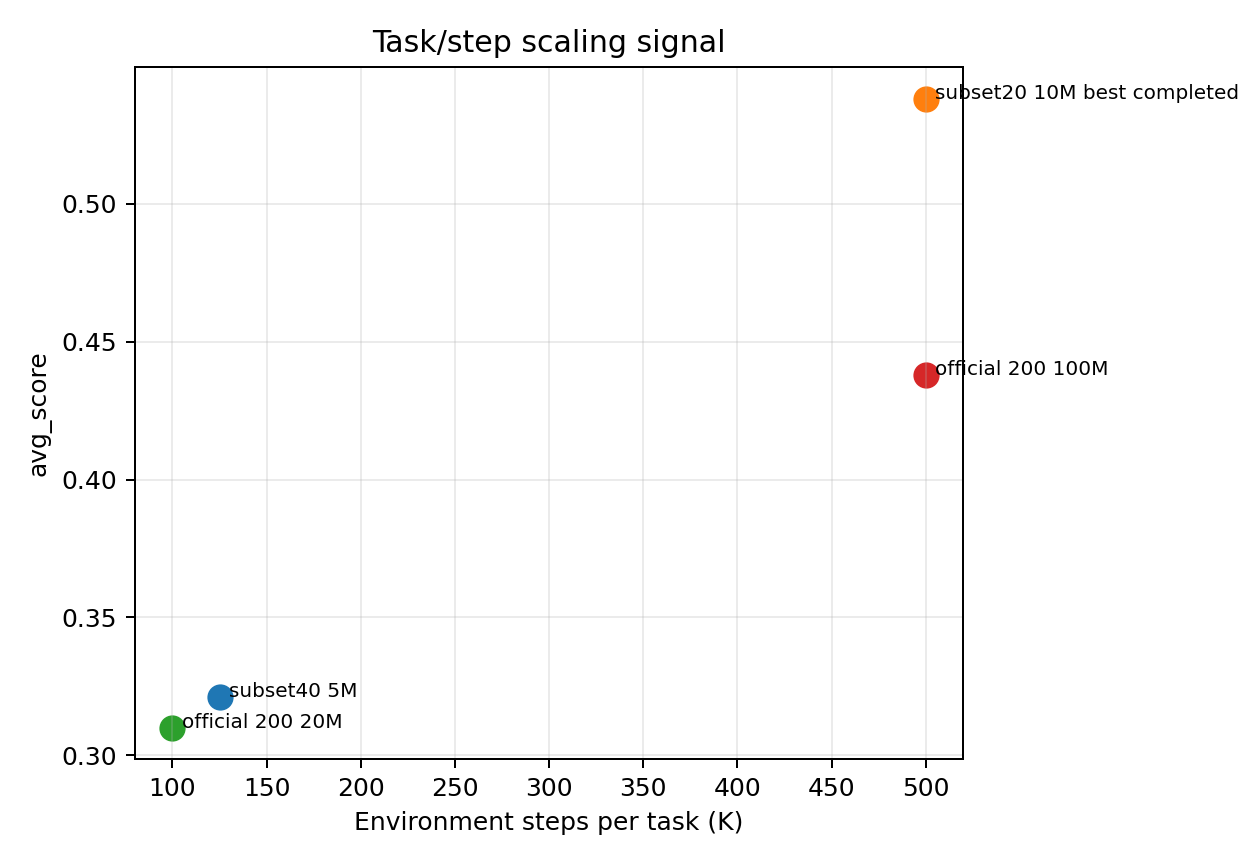
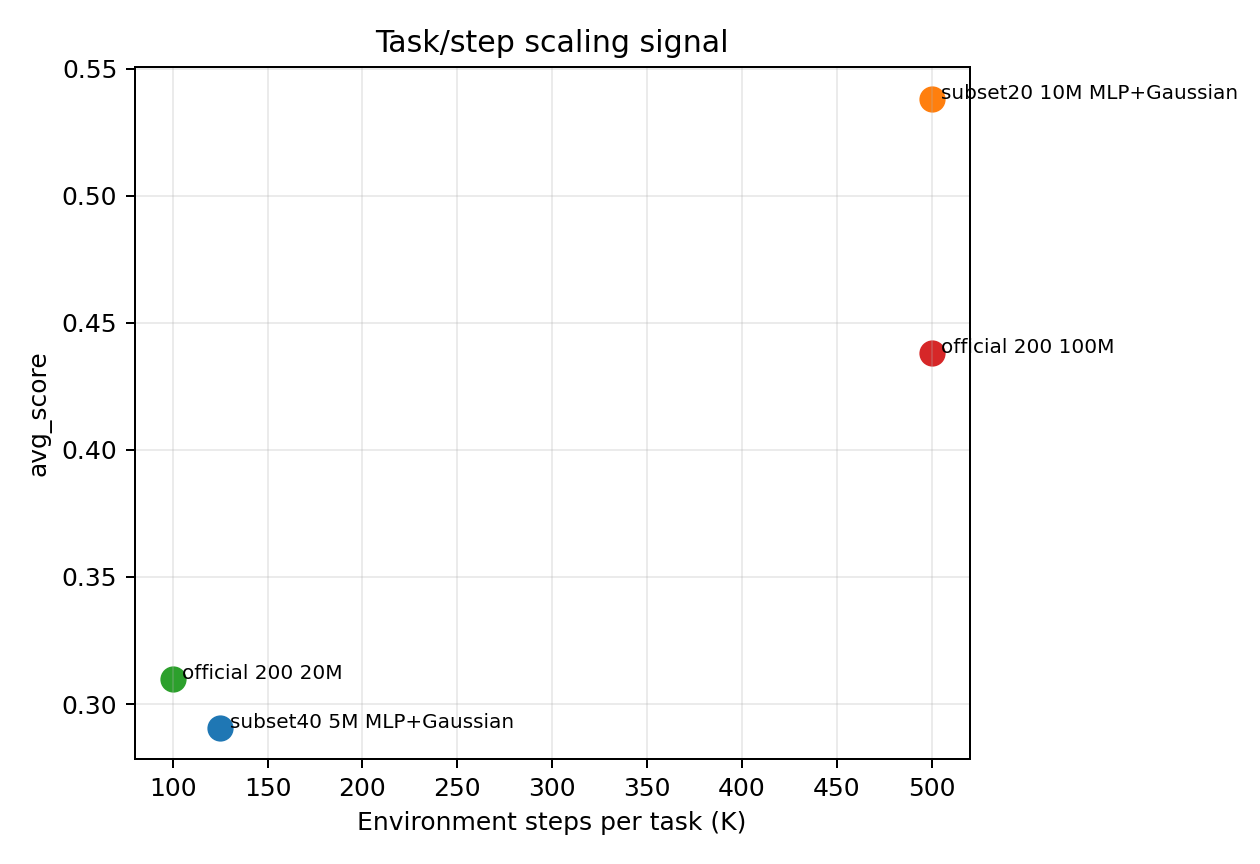
Update ablation runtime summaries

diff --git a/scripts/generate_ablation_insights.py b/scripts/generate_ablation_insights.py
@@ -94,6 +94,15 @@ def run_summary(path: Path, meta: dict) -> dict:
 	records = read_jsonl(path / "metrics.jsonl")
 	evals = dedup_eval_curve(records)
 	trains = [r for r in records if r.get("category") == "train" and "step" in r]
+	eval_durations = []
+	prev = None
+	for rec in records:
+		if rec.get("category") == "eval" and prev and prev.get("category") == "train":
+			delta = rec.get("elapsed_time", 0) - prev.get("elapsed_time", 0)
+			# Ignore resume resets and first-eval outliers; normal subset evals are ~1 minute.
+			if 0 < delta < 600:
+				eval_durations.append(float(delta))
+		prev = rec
 	latest_eval = max(evals, key=lambda r: r.get("step", -1), default={})
 	best_eval = max(evals, key=lambda r: r.get("avg_score", r.get("episode_score", -1)), default={})
 	max_train = max(trains, key=lambda r: r.get("step", -1), default={})
@@ -110,6 +119,8 @@ def run_summary(path: Path, meta: dict) -> dict:
 		"update_time": max_train.get("update_time"),
 		"steps_per_second": max_train.get("steps_per_second"),
 		"elapsed_time_hours": (max_train.get("elapsed_time") / 3600.0) if max_train.get("elapsed_time") else None,
+		"eval_time_mean_s": mean(eval_durations) if eval_durations else None,
+		"eval_time_last_s": eval_durations[-1] if eval_durations else None,
 		"curve": [(int(r["step"]), float(r.get("avg_score", r.get("episode_score")))) for r in evals],
 	}
 
@@ -276,6 +287,32 @@ def plot_compute_scatter(rows: list[dict], out: Path) -> None:
 	plt.close(fig)
 
 
+def plot_runtime_bars(rows: list[dict], out: Path) -> None:
+	rows = sorted(rows, key=lambda r: (r["wm"], r["policy"]))
+	labels = [f"{r['wm']}\n+{r['policy']}" for r in rows]
+	xs = range(len(rows))
+	fig, axes = plt.subplots(1, 2, figsize=(12, 4.8))
+	axes[0].bar([x - 0.18 for x in xs], [r.get("action_time") or 0 for r in rows], width=0.36, label="action_time")
+	axes[0].bar([x + 0.18 for x in xs], [r.get("update_time") or 0 for r in rows], width=0.36, label="update_time")
+	axes[0].set_xticks(list(xs), labels, fontsize=8)
+	axes[0].set_ylabel("Seconds")
+	axes[0].set_title("H100 per-step runtime metrics")
+	axes[0].legend()
+	axes[0].grid(axis="y", alpha=0.25)
+
+	axes[1].bar(xs, [r.get("eval_time_mean_s") or 0 for r in rows], color="#6f9fd8")
+	axes[1].set_xticks(list(xs), labels, fontsize=8)
+	axes[1].set_ylabel("Seconds per eval")
+	axes[1].set_title("H100 mean 20-task eval time")
+	axes[1].grid(axis="y", alpha=0.25)
+	for i, r in enumerate(rows):
+		if r.get("eval_time_mean_s"):
+			axes[1].text(i, r["eval_time_mean_s"] + 1, f"{r['eval_time_mean_s']:.0f}s", ha="center", fontsize=8)
+	fig.tight_layout()
+	fig.savefig(out, dpi=180)
+	plt.close(fig)
+
+
 def main() -> None:
 	parser = argparse.ArgumentParser()
 	parser.add_argument("--out-dir", default="docs/assets/ablation_insights_20260610")
@@ -301,6 +338,9 @@ def main() -> None:
 	write_csv(out_dir / "subset20_highstep_summary.csv", subset20_summary, ["wm", "policy", "n", "final_mean", "final_std", "peak_max", "peak_mean", "action_time_mean", "update_time_mean", "sps_mean", "est_hours_to_10m", "best_run"])
 	write_csv(out_dir / "subset20_runs.csv", subset20, ["gpu", "wm", "policy", "train_step", "eval_step", "final_score", "peak_step", "peak_score", "action_time", "update_time", "steps_per_second", "elapsed_time_hours", "name", "path"])
 	write_csv(out_dir / "subset40_flowsteps_summary.csv", flowsteps_summary, ["flow_steps", "wm", "policy", "n", "final_mean", "final_std", "peak_max", "action_time_mean", "update_time_mean", "sps_mean", "best_run"])
+
+	h100_subset20 = [r for r in subset20 if r["gpu"] == "h100-r1"]
+	write_csv(out_dir / "subset20_h100_runtime_summary.csv", h100_subset20, ["gpu", "wm", "policy", "train_step", "eval_step", "final_score", "peak_step", "peak_score", "action_time", "update_time", "steps_per_second", "eval_time_mean_s", "eval_time_last_s", "elapsed_time_hours", "name"])
 
 	plot_2x2_heatmap(two_by_two, out_dir / "subset40_2x2_heatmap.png")
 	plot_bar(wm_variants, out_dir / "subset40_flow_wm_variants.png", "Subset40 5M Flow-WM variants: final avg_score")
@@ -336,10 +376,16 @@ def main() -> None:
 			curve_groups_20[f"{run['wm']}+{run['policy']}"].append(run)
 	plot_curves(curve_groups_20, out_dir / "subset20_highstep_training_curves.png", "Subset20 10M high-step training curves")
 	plot_compute_scatter(subset20, out_dir / "subset20_compute_vs_score.png")
+	curve_groups_20_h100 = defaultdict(list)
+	for run in h100_subset20:
+		if (run["wm"], run["policy"]) in keep20:
+			curve_groups_20_h100[f"{run['wm']}+{run['policy']}"].append(run)
+	plot_curves(curve_groups_20_h100, out_dir / "subset20_h100_training_curves.png", "Subset20 H100 training curves")
+	plot_runtime_bars(h100_subset20, out_dir / "subset20_h100_runtime_bars.png")
 
 	scaling_rows = [
-		{"setting": "subset40 5M", "tasks": 40, "steps_m": 5, "steps_per_task_k": 125, "score": max(r["final_mean"] for r in two_by_two)},
-		{"setting": "subset20 10M best completed", "tasks": 20, "steps_m": 10, "steps_per_task_k": 500, "score": max(r["final_score"] for r in subset20 if r["eval_step"] >= 10_000_000)},
+		{"setting": "subset40 5M MLP+Gaussian", "tasks": 40, "steps_m": 5, "steps_per_task_k": 125, "score": next(r["final_mean"] for r in two_by_two if r["wm"] == "mlp" and r["policy"] == "gaussian")},
+		{"setting": "subset20 10M MLP+Gaussian", "tasks": 20, "steps_m": 10, "steps_per_task_k": 500, "score": max(r["final_score"] for r in subset20 if r["wm"] == "mlp" and r["policy"] == "gaussian" and r["eval_step"] >= 10_000_000)},
 		{"setting": "official 200 20M", "tasks": 200, "steps_m": 20, "steps_per_task_k": 100, "score": 0.31},
 		{"setting": "official 200 100M", "tasks": 200, "steps_m": 100, "steps_per_task_k": 500, "score": 0.438},
 	]

diff --git a/docs/ablation_insights_summary.md b/docs/ablation_insights_summary.md
@@ -10,6 +10,18 @@ Source metrics:
 
 Important caveat: `mean +/- std` below is over completed local runs across GPU/replicate labels, not over independent random seeds unless explicitly stated.
 
+## Key Results
+
+| Experiment name | # Tasks | Budget / protocol | WM | Policy | Eval step | Avg_score | Peak_score | Notes |
+| --- | ---: | --- | --- | --- | ---: | ---: | ---: | --- |
+| Official Newt paper | 200 | 100M total, state obs | Newt MLP WM | Gaussian prior + MPC | 100M | 0.438 | n/a | Official full MMBench reference. |
+| Official Newt paper | 200 | 20M total, state obs | Newt MLP WM | Gaussian prior + MPC | 20M | 0.310 | n/a | Official early reference. |
+| Official TD-MPC2 single-task | 200 | 1B total across 200 single-task agents | MLP WM | Gaussian + MPC | 1B | 0.800 | n/a | Upper reference, not a multitask agent. |
+| Our subset40 best completed 2x2 | 40 | 5M + 50k demo | MLP WM | Flow policy | 5M | 0.321 +/- 0.012 | 0.339 | Mean +/- std over 4 completed runs; best single run 0.339. Best completed 2x2 architecture. |
+| Our subset40 best flow-WM | 40 | 5M + 50k demo | Residual_flow WM | Gaussian | 5M | 0.232 +/- 0.027 | 0.256 | Mean +/- std over 4 completed runs; best single run 0.256. Best flow-WM variant, still below MLP WM. |
+| Our subset20 strongest signal | 20 | 10M target + 50k demo | MLP WM | Flow policy | 7.2M-9.0M current | 0.519-0.583 | 0.588 | Best current architecture signal; runs are still active/resubmitted across H100/H200/A100/L40S. |
+| Our subset20 promising flow-WM | 20 | 10M target + 50k demo | Residual_flow WM | Gaussian | 4.8M-7.0M current | 0.400-0.463 | 0.511 | Flow-WM improves with more steps, but remains below MLP WM. H100 residual_flow has the strongest flow-WM peak so far. |
+
 ## Architecture Ablation
 
 ### WM x Policy 2x2
@@ -77,18 +89,24 @@ Conclusion:
 
 ## Compute / Runtime Ablation
 
-Protocol: subset20 high-step runs. Scores are current latest/peak local metrics; not all rows are complete at 10M.
+Protocol: subset20 high-step runs on **H100 only**. This avoids mixing architecture effects with H100/H200/A100/L40S runtime differences. Scores are current latest/peak local metrics; not all rows are complete at 10M.
 
-| Architecture | Runs | Current avg_score mean | Peak score | Mean action_time | Mean update_time | Compute read |
-| --- | ---: | ---: | ---: | ---: | ---: | --- |
-| MLP + flow policy | 4 | 0.579 +/- 0.009 | 0.588 | 0.083s | 0.053s | Best score signal, but action selection is slower than Gaussian. |
-| MLP + Gaussian | 4 | 0.497 +/- 0.035 | 0.591 | 0.049s | 0.043s | Fastest strong baseline; best completed 10M row is 0.538. |
-| residual_flow + Gaussian | 4 | 0.431 +/- 0.029 | 0.511 | 0.115s | 0.056s | Slower than MLP+flow and lower score; currently not Pareto-efficient. |
-| residual_mean_flow_wm + Gaussian | 4 | 0.425 +/- 0.052 | 0.492 | 0.068s | 0.050s | Cheaper than residual_flow but lower score. |
+Definitions:
+
+- `mean action_time`: average logged time to select/plan one environment action at the latest train step.
+- `mean update_time`: average logged optimizer/world-model update time per update at the latest train step.
+- `mean eval time`: log-derived estimate from `eval.elapsed_time - previous train.elapsed_time`; useful for relative comparison, but not a profiler-grade measurement.
+
+| Architecture | H100 eval step | Current avg_score | Peak score | Mean action_time | Mean update_time | Mean eval time | Compute read |
+| --- | ---: | ---: | ---: | ---: | ---: | ---: | --- |
+| MLP + flow policy | 9.0M | 0.565 | 0.588 | 0.060s | 0.046s | 87.6s | Best current score signal, but action planning is slower than Gaussian. |
+| MLP + Gaussian | 10.0M | 0.538 | 0.591 | 0.035s | 0.038s | 61.7s | Original Newt setting; fastest strong baseline on H100. |
+| residual_flow + Gaussian | 7.0M | 0.410 | 0.511 | 0.076s | 0.052s | 103.3s | Slower and lower score than MLP choices; currently not Pareto-efficient. |
+| residual_mean_flow_wm + Gaussian | 10.0M | 0.489 | 0.492 | 0.049s | 0.048s | 71.8s | Cheaper than residual_flow but still below MLP WM. |
 
 Figure:
 
-![Subset20 compute vs score](assets/ablation_insights_20260610/subset20_compute_vs_score.png)
+![Subset20 H100 runtime bars](assets/ablation_insights_20260610/subset20_h100_runtime_bars.png)
 
 Conclusion:
 
@@ -98,10 +116,12 @@ Conclusion:
 
 ## Training Budget / Scaling Ablation
 
+Best setting here intentionally uses the original Newt architecture, **MLP WM + Gaussian policy**, so this isolates task/step scaling from architecture changes.
+
 | Setting | Tasks | Total steps | Steps per task | Score | Interpretation |
 | --- | ---: | ---: | ---: | ---: | --- |
-| subset40 5M best architecture | 40 | 5M | 125k | 0.321 | Useful early architecture screen, but per-task interaction is low. |
-| subset20 10M best completed | 20 | 10M | 500k | 0.538 | Stronger learning signal; same per-task budget as official 100M/200-task. |
+| subset40 5M MLP+Gaussian | 40 | 5M | 125k | 0.291 | Original setting short-run baseline; per-task interaction is low. |
+| subset20 10M MLP+Gaussian | 20 | 10M | 500k | 0.538 | Original setting; same per-task budget as official 100M/200-task. |
 | Official Newt 20M | 200 | 20M | 100k | 0.310 | Official early 200-task reference. |
 | Official Newt 100M | 200 | 100M | 500k | 0.438 | Official full 200-task reference. |
 
@@ -109,9 +129,9 @@ Figure:
 
 ![Scaling by steps per task](assets/ablation_insights_20260610/scaling_steps_per_task.png)
 
-Subset20 high-step training curves:
+Subset20 high-step training curves, H100 only:
 
-![Subset20 training curves](assets/ablation_insights_20260610/subset20_highstep_training_curves.png)
+![Subset20 H100 training curves](assets/ablation_insights_20260610/subset20_h100_training_curves.png)
 
 Conclusion:
 
@@ -149,6 +169,7 @@ Tables:
 - `docs/assets/ablation_insights_20260610/subset40_flow_wm_variants_summary.csv`
 - `docs/assets/ablation_insights_20260610/subset20_highstep_summary.csv`
 - `docs/assets/ablation_insights_20260610/subset20_runs.csv`
+- `docs/assets/ablation_insights_20260610/subset20_h100_runtime_summary.csv`
 - `docs/assets/ablation_insights_20260610/subset40_flowsteps_summary.csv`
 - `docs/assets/ablation_insights_20260610/scaling_summary.csv`
 
@@ -159,5 +180,7 @@ Figures:
 - `docs/assets/ablation_insights_20260610/subset40_flow_wm_variants.png`
 - `docs/assets/ablation_insights_20260610/subset40_flow_wm_variants_training_curves.png`
 - `docs/assets/ablation_insights_20260610/subset20_highstep_training_curves.png`
+- `docs/assets/ablation_insights_20260610/subset20_h100_training_curves.png`
+- `docs/assets/ablation_insights_20260610/subset20_h100_runtime_bars.png`
 - `docs/assets/ablation_insights_20260610/subset20_compute_vs_score.png`
 - `docs/assets/ablation_insights_20260610/scaling_steps_per_task.png`

diff --git a/docs/experiment_results_summary.md b/docs/experiment_results_summary.md
@@ -1,6 +1,6 @@
 # Experiment Results Summary
 
-Last updated: 2026-06-10 18:52 EDT
+Last updated: 2026-06-10 19:32 EDT
 
 Metric: `avg_score`, the Newt/MMBench normalized score averaged over evaluated tasks. This is the same normalized-score definition used by the official Newt paper, but our local subset20/subset40 results are not directly comparable to the official 200-task protocol.
 
@@ -58,19 +58,19 @@ Metric: `avg_score`, the Newt/MMBench normalized score averaged over evaluated t
 | Subset40 WM variant | 40 | 5M + 50k demo | endpoint_flow | Gaussian | A100 | complete | 5M | 0.19807 | Endpoint flow not competitive. |
 | Subset40 WM variant | 40 | 5M + 50k demo | endpoint_flow | Gaussian | H200 | complete | 5M | 0.19475 | Endpoint flow not competitive. |
 | Subset40 WM variant | 40 | 5M + 50k demo | endpoint_flow | Gaussian | L40S | complete | 5M | 0.18724 | Endpoint flow not competitive. |
-| Subset20 10M high-step | 20 | 10M target + 50k demo | MLP | Gaussian | H100 | complete | 10.0M | 0.53816 | First completed 10M subset20 cell; peak observed eval was 0.58430 at 8.4M. |
+| Subset20 10M high-step | 20 | 10M target + 50k demo | MLP | Gaussian | H100 | complete | 10.0M | 0.53816 | First completed 10M subset20 cell; peak observed eval was 0.59102 at 8.8M. |
 | Subset20 10M high-step | 20 | 10M target + 50k demo | MLP | flow | L40S | resubmitted | 7.6M | 0.58263 | Strong MLP-WM cell; preempted at 7.78M train and resubmitted as `9797385_[1]`. |
 | Subset20 10M high-step | 20 | 10M target + 50k demo | MLP | Gaussian | L40S | complete | 10.0M | 0.48801 | Completed 10M despite Slurm preemption label; peak observed eval was 0.55139 at 7.4M. |
-| Subset20 10M high-step | 20 | 10M target + 50k demo | MLP | Gaussian | H200 | running | 8.4M | 0.45496 | Active as `9796333_0`; peak observed eval was 0.53666 at 7.4M. |
-| Subset20 10M high-step | 20 | 10M target + 50k demo | MLP | flow | H100 | running | 8.6M | 0.55795 | Resubmitted as `9799983_1` from 8.5M full checkpoint; peak observed eval was 0.58825 at 4.0M. |
-| Subset20 10M high-step | 20 | 10M target + 50k demo | MLP | flow | H200 | resubmitted | 5.4M | 0.48872 | Continuing toward 10M. |
-| Subset20 10M high-step | 20 | 10M target + 50k demo | MLP | Gaussian | A100 | running | 8.4M | 0.44407 | Active as `9796335_0`; peak observed eval was 0.52407 at 8.0M. |
-| Subset20 10M high-step | 20 | 10M target + 50k demo | MLP | flow | A100 | running | 6.8M | 0.56850 | Active as `9796335_1`; best A100 MLP+flow snapshot so far. |
+| Subset20 10M high-step | 20 | 10M target + 50k demo | MLP | Gaussian | H200 | running | 8.6M | 0.48073 | Active as `9796333_0`; peak observed eval was 0.53666 at 7.4M. |
+| Subset20 10M high-step | 20 | 10M target + 50k demo | MLP | flow | H100 | running | 9.0M | 0.56532 | Resubmitted as `9799983_1` from 8.5M full checkpoint; peak observed eval was 0.58825 at 4.0M. |
+| Subset20 10M high-step | 20 | 10M target + 50k demo | MLP | flow | H200 | resubmitted | 9.0M | 0.58255 | Continuing toward 10M; peak observed eval was 0.58663 at 8.8M. |
+| Subset20 10M high-step | 20 | 10M target + 50k demo | MLP | Gaussian | A100 | running | 8.8M | 0.53211 | Active as `9796335_0`; best A100 MLP+Gaussian snapshot so far. |
+| Subset20 10M high-step | 20 | 10M target + 50k demo | MLP | flow | A100 | running | 7.2M | 0.51888 | Active as `9796335_1`; peak observed eval was 0.56850 at 6.8M. |
 | Subset20 10M high-step | 20 | 10M target + 50k demo | residual_flow | Gaussian | L40S | resubmitted | 5.8M | 0.46335 | Preempted at 5.90M train and resubmitted as `9798924_[2-3]`. |
 | Subset20 10M high-step | 20 | 10M target + 50k demo | residual_mean_flow_wm | Gaussian | A100 | running | 5.6M | 0.39414 | Active as `9796335_3`; peak observed eval was 0.42541 at 4.4M. |
 | Subset20 10M high-step | 20 | 10M target + 50k demo | residual_mean_flow_wm | Gaussian | H200 | resubmitted | 7.2M | 0.44473 | Preempted at 7.24M train and resubmitted as `9797383_[3]`. |
 | Subset20 10M high-step | 20 | 10M target + 50k demo | residual_mean_flow_wm | Gaussian | H100 | complete | 10.0M | 0.48851 | Completed 10M despite Slurm preemption label; peak observed eval was 0.49207 at 9.2M. |
-| Subset20 10M high-step | 20 | 10M target + 50k demo | residual_flow | Gaussian | H100 | resubmitted | 7.0M | 0.44678 | Preempted at 7.0M full checkpoint and resubmitted as `9803431_[2]`; peak observed eval was 0.51065 at 6.0M. |
+| Subset20 10M high-step | 20 | 10M target + 50k demo | residual_flow | Gaussian | H100 | resubmitted | 7.0M | 0.41013 | Preempted at 7.0M full checkpoint and resubmitted as `9803431_[2]`; peak observed eval was 0.51065 at 6.0M. |
 | Subset20 10M high-step | 20 | 10M target + 50k demo | residual_flow | Gaussian | A100 | running | 4.8M | 0.41356 | Active as `9796335_2`; below MLP cells. |
 | Subset20 10M high-step | 20 | 10M target + 50k demo | residual_mean_flow_wm | Gaussian | L40S | resubmitted | 6.6M | 0.37317 | Preempted at 6.74M train and resubmitted as `9798924_[2-3]`. |
 | Subset20 10M high-step | 20 | 10M target + 50k demo | residual_flow | Gaussian | H200 | resubmitted | 6.0M | 0.40036 | Below MLP cells. |
@@ -82,4 +82,4 @@ Current read:
 - New residual variants (`shortcut`, `residual_mean`, `ot_cfm`) did not beat plain `residual_flow` on completed subset40 evals.
 - The subset20 high-step direction is much stronger overall, with completed 10M rows for H100/L40S `MLP + Gaussian` and H100 `residual_mean_flow_wm + Gaussian`; these are still not directly comparable to official 200-task results.
 - Current subset20 ranking still favors MLP WM. H100 `residual_mean_flow_wm + Gaussian` reached 0.48851 at 10M, which is close to the L40S MLP baseline but below the best H100 MLP baseline.
-- The strongest ongoing architecture signal remains `MLP + flow policy`, with H200/L40S/A100/H100 partial evals in the 0.558-0.583 range and continuations still active or pending.
+- The strongest ongoing architecture signal remains `MLP + flow policy`, with current partial evals from 0.519 to 0.583 across A100/H100/H200/L40S and continuations still active or pending.
